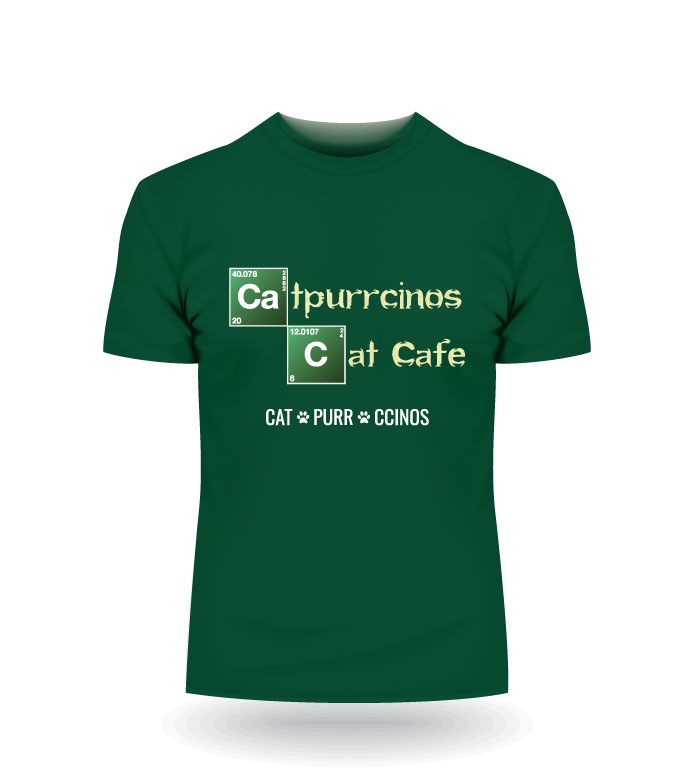
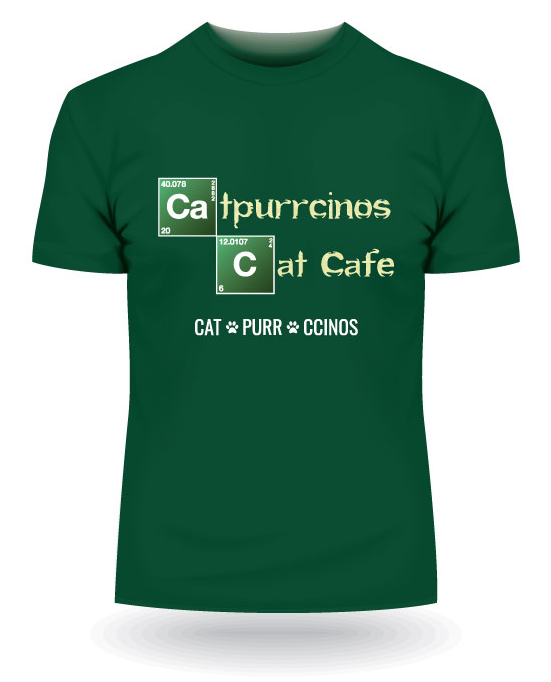
Design Image fix

Changed region(s): [[0.0617, 0.0308, 0.9564, 0.9238]]

diff --git a/frontend/src/screens/DesignScreen/DesignProject/DesignProjectData.js b/frontend/src/screens/DesignScreen/DesignProject/DesignProjectData.js
@@ -1,7 +1,7 @@
 import catman from "../../../shared/images/projectThumbnails/design/catman.jpg";
 import breakingBad from "../../../shared/images/projectThumbnails/design/breaking-bad.jpg";
 import rugcats from "../../../shared/images/projectThumbnails/design/rugcats.jpg";
-import catpurrccinos from "../../../shared/images/projectThumbnails/design/catpurrccinos.jpg";
+import catpurrccinos from "../../../shared/images/projectThumbnails/design/catpurrccinos.png";
 import eoy from "../../../shared/images/projectThumbnails/design/eoy.jpg";
 import hoopdreamsLogo from "../../../shared/images/projectThumbnails/design/hoopdreams.jpg";
 import hoopdreamsFlyer from "../../../shared/images/projectThumbnails/design/hoopdreams-flyer.jpg";

diff --git a/frontend/src/screens/DesignScreen/DesignProject/DesignProject.scss b/frontend/src/screens/DesignScreen/DesignProject/DesignProject.scss
@@ -55,7 +55,7 @@
             align-items: center;
             justify-content: center;
             /* width: 100%; */
-            margin-top: 20px;
+            // margin-top: 20px;
             margin-bottom: 5px;
             margin-right: 40px;
             /* max-width: 160px; */
@@ -82,7 +82,8 @@
     display: flex;
     width: 100%;
     flex-basis: 40%;
-    max-width: 524px;
+    // max-width: 524px;
+    max-width: 472px;
     align-items: center;
     // height: 85vh;
     height: 100%;

diff --git a/frontend/src/screens/DesignScreen/DesignProject/DesignProject.css b/frontend/src/screens/DesignScreen/DesignProject/DesignProject.css
@@ -73,7 +73,6 @@
       -ms-flex-pack: center;
           justify-content: center;
   /* width: 100%; */
-  margin-top: 20px;
   margin-bottom: 5px;
   margin-right: 40px;
   /* max-width: 160px; */
@@ -102,7 +101,7 @@
   width: 100%;
   -ms-flex-preferred-size: 40%;
       flex-basis: 40%;
-  max-width: 524px;
+  max-width: 472px;
   -webkit-box-align: center;
       -ms-flex-align: center;
           align-items: center;
